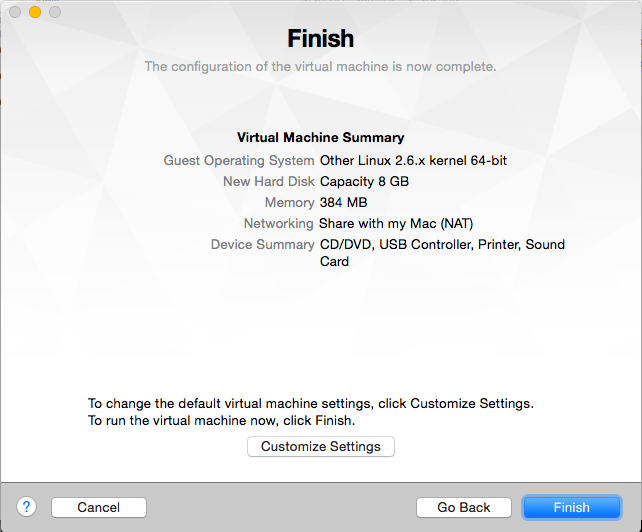
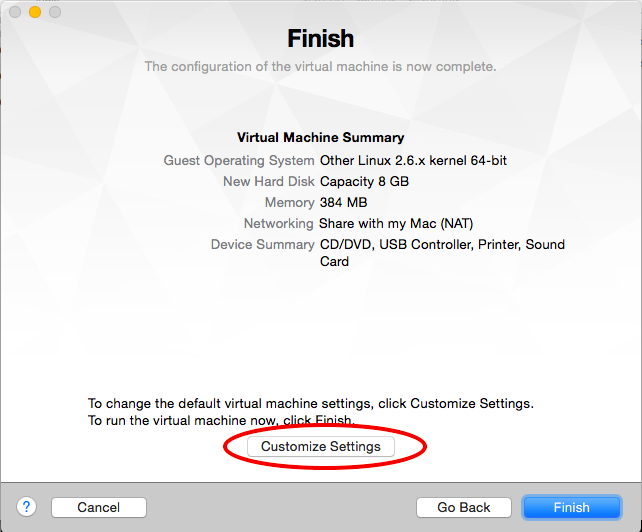
Add pointers on images.

Changed region(s): [[0.3427, 0.782, 0.6231, 0.9023], [0.5919, 0.812, 0.6854, 0.8722]]

diff --git a/md/install/mmva-vmware-fusion.md b/md/install/mmva-vmware-fusion.md
@@ -33,7 +33,7 @@ Note : this was tested for MedicOS 64-bit version only (file names containing x6
 
 ### Select Bootable ISO file
 
-* Click Use another disc or image, and select your ISO file.
+* Click Use another disc or image, and select your ISO file. Or use an existing one if you've done this procedure before.
 
 ![Use another disc or image](img/vm-fusion/select_image.png)
 
@@ -50,6 +50,8 @@ Note : this was tested for MedicOS 64-bit version only (file names containing x6
 ![Customize settings](img/vm-fusion/customize_settings.png)
 
 * You are now in Settings. You can also reach this page from the top-bar Apple menu, at Virtual Machine > Settings...
+
+We'll be editing 3 settings.
 
 ![Settings](img/vm-fusion/settings.png)
 
